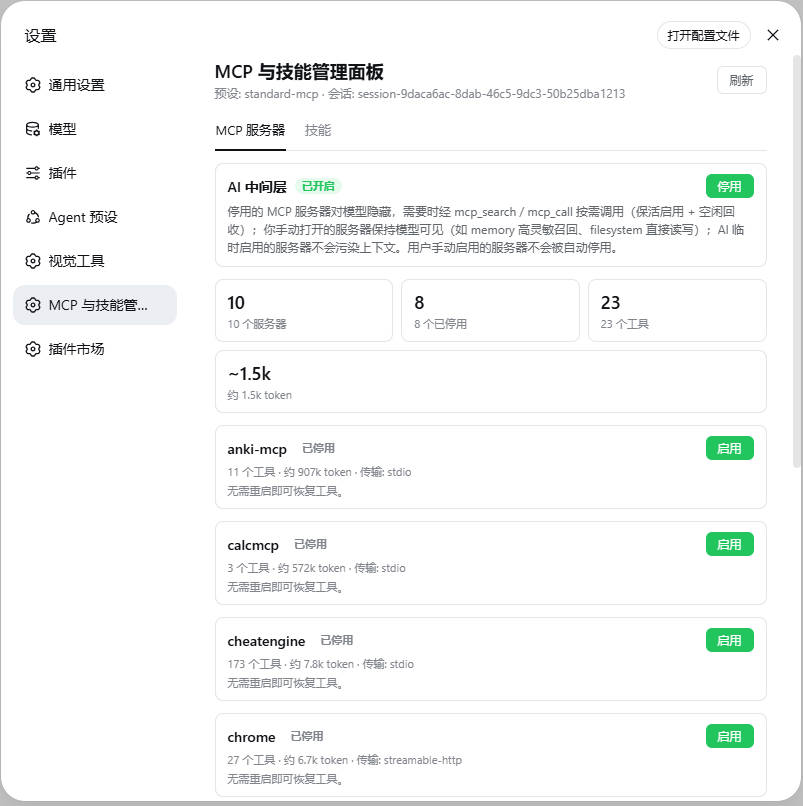
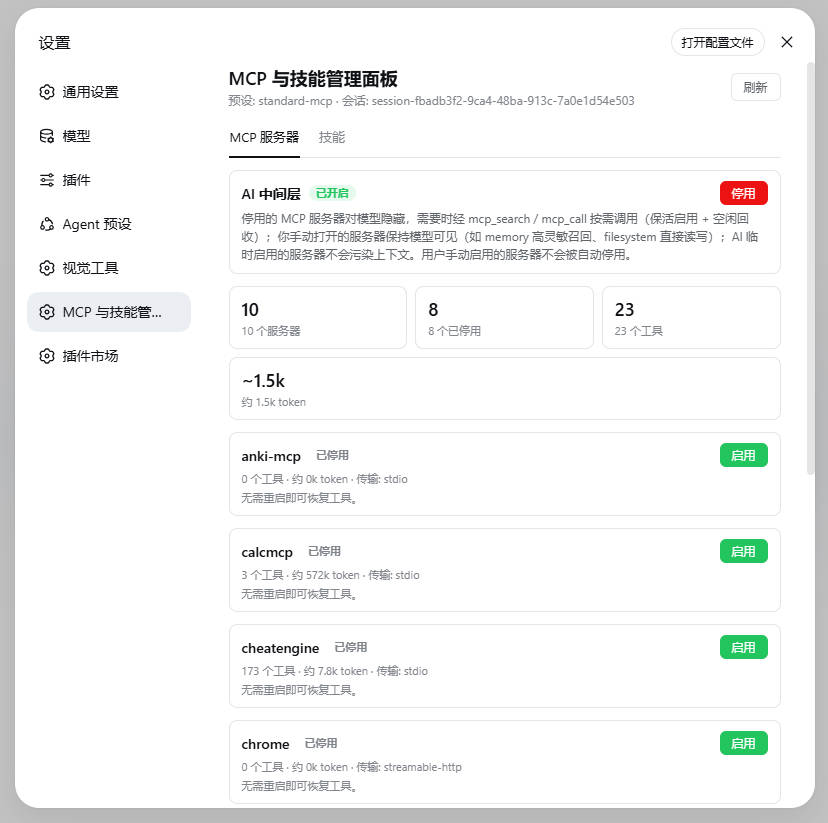
docs: bump README badge to v0.4.8 + replace homepage screenshot

diff --git a/README.en.md b/README.en.md
@@ -9,7 +9,7 @@
 
 <p align="center">
   <img alt="License: MIT" src="https://img.shields.io/badge/license-MIT-blue.svg">
-  <img alt="Version" src="https://img.shields.io/badge/version-0.4.7-green.svg">
+  <img alt="Version" src="https://img.shields.io/badge/version-0.4.8-green.svg">
 </p>
 
 ---

diff --git a/README.md b/README.md
@@ -9,7 +9,7 @@
 
 <p align="center">
   <img alt="License: MIT" src="https://img.shields.io/badge/license-MIT-blue.svg">
-  <img alt="Version" src="https://img.shields.io/badge/version-0.4.7-green.svg">
+  <img alt="Version" src="https://img.shields.io/badge/version-0.4.8-green.svg">
 </p>
 
 ---
